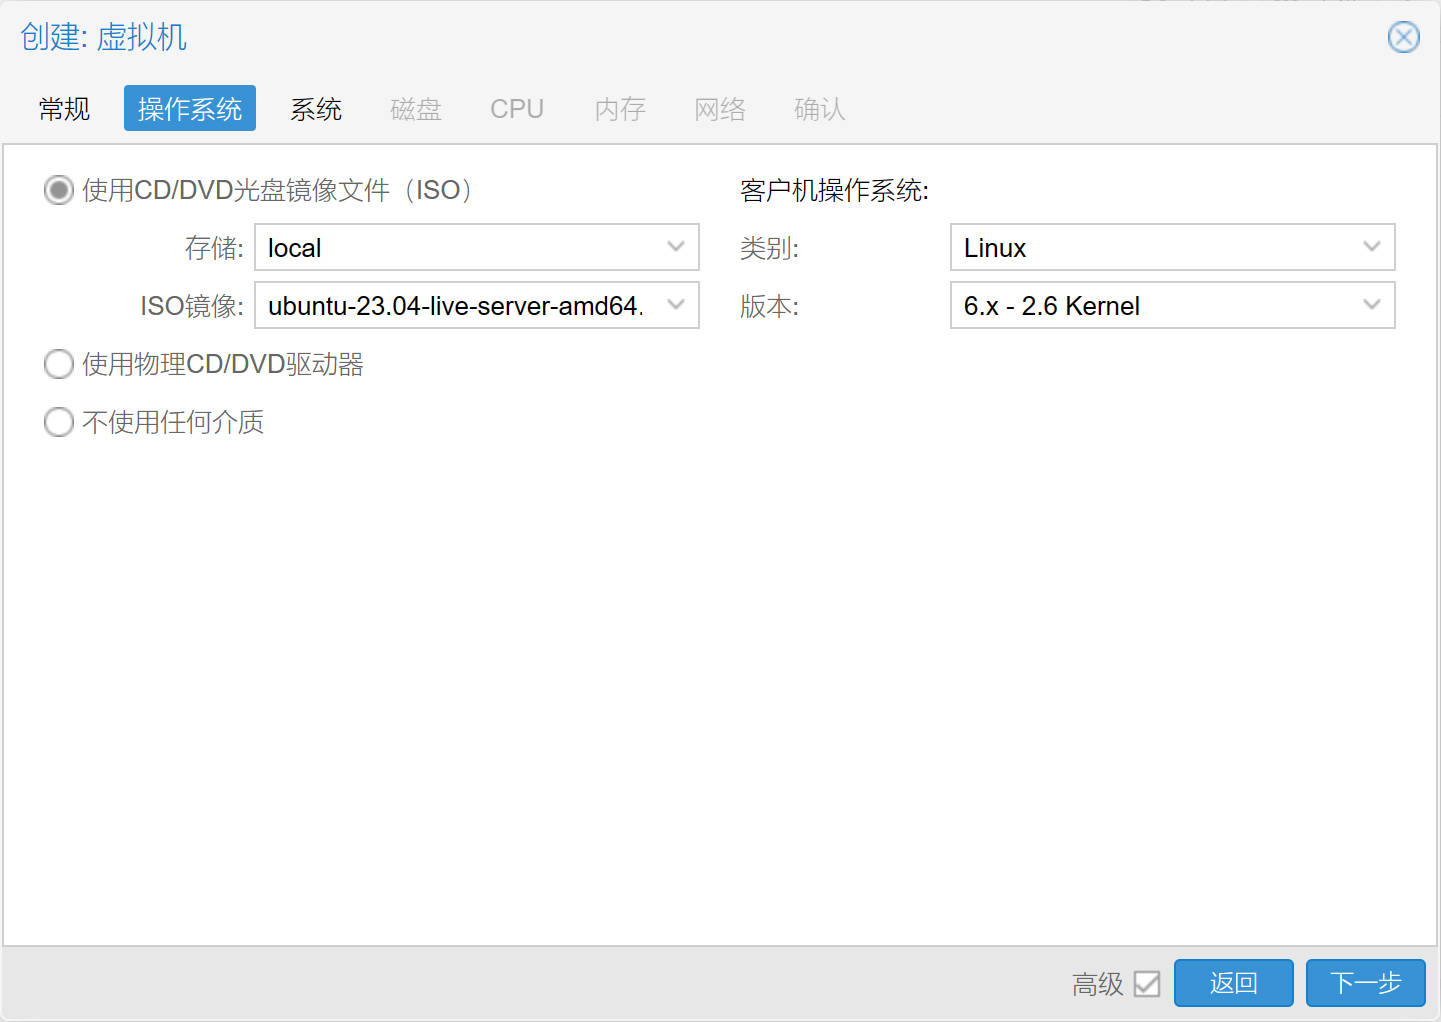
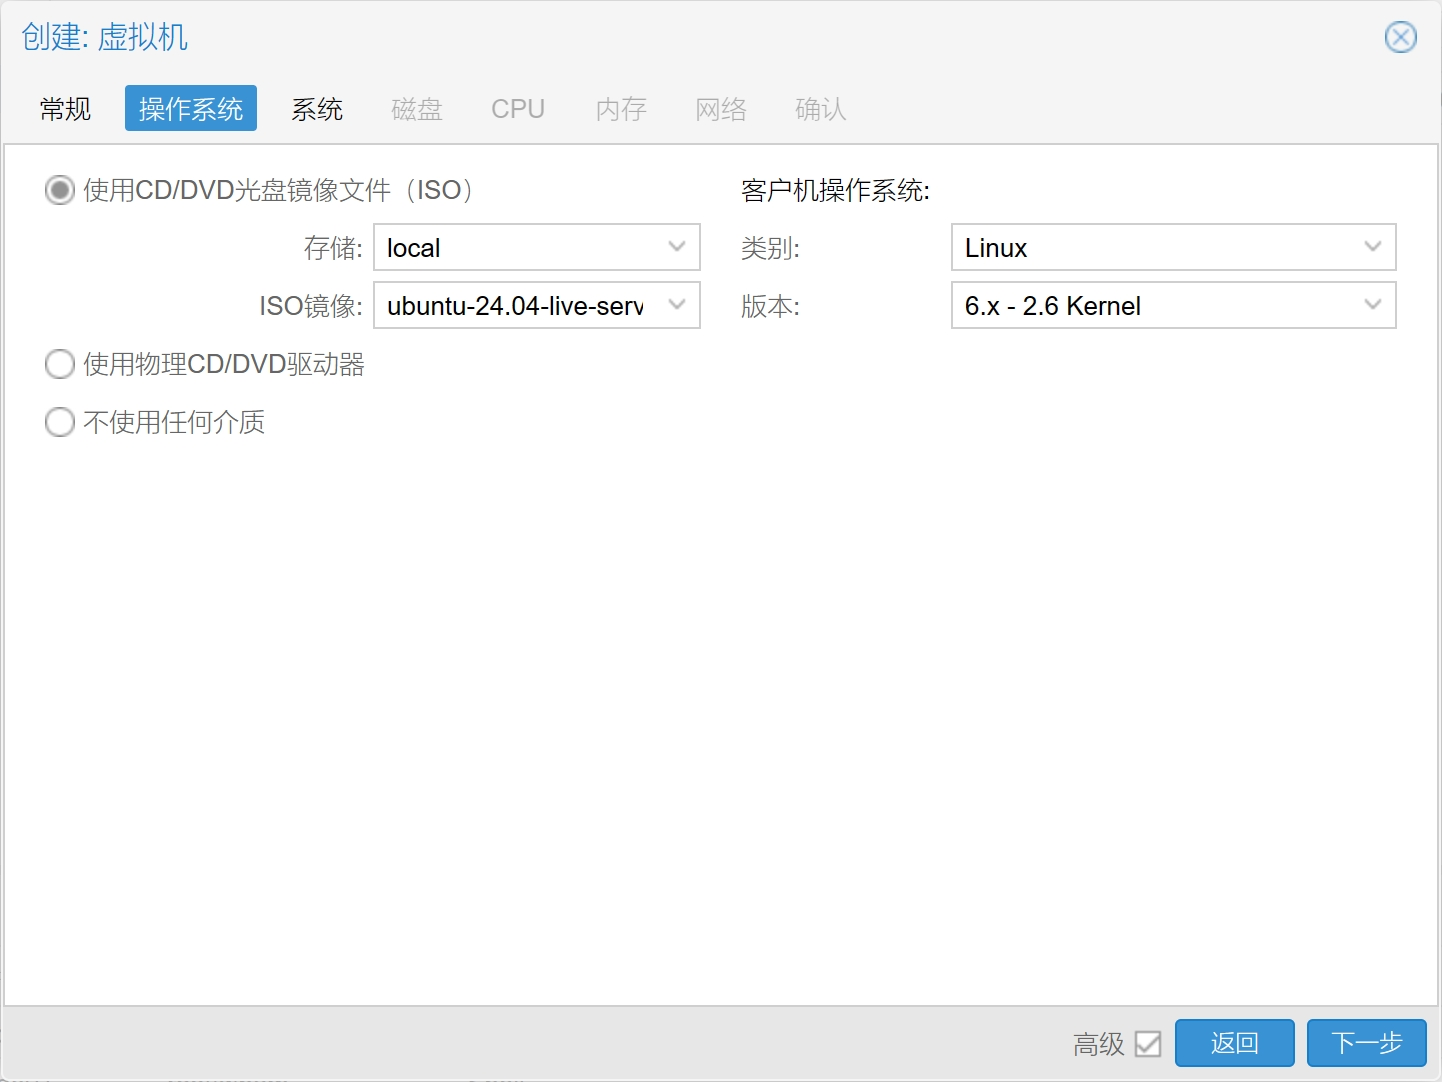
同步更新

diff --git a/02.Ubuntu_安装系统软件.md b/02.Ubuntu_安装系统软件.md
@@ -6,7 +6,7 @@
 
 由于之前设置的 `Mirror address` 仅为临时使用地址，现在需将其修改为完整版，依然使用 USTC 镜像站作为演示。  
 
-以后，当系统版本发生变化时，请参考使用 snullp 大叔开发的 [配置生成器](https://mirrors.ustc.edu.cn/repogen/) 。  
+以后，当系统版本发生变化时，请参考 USTC 镜像站的官方说明 [USTC Mirror Help - Ubuntu](https://mirrors.ustc.edu.cn/help/ubuntu.html) 。  
 
 如果系统安装模式为 `Ubuntu Server (minimized)` ，则在修改系统软件源之前，务必安装以下软件包。  
 
@@ -15,37 +15,40 @@
 $ sudo apt install nano neovim
 ```
 
-使用 `neovim` 编辑器修改软件源配置文件，执行以下命令。  
+Ubuntu 24.04 的软件源配置采用了 `DEB822` 格式，新版 `sources.list` 配置文件内容如下。  
 
 ```bash
-## 进入软件源配置文件目录
-$ cd /etc/apt/
+## 查看镜像配置文件
+$ cat /etc/apt/sources.list
 
-## 移除旧的软件源配置文件
-$ sudo rm -rvf sources.list sources.list.curtin.old
-
-## 创建新的软件源配置文件
-$ sudo nvim sources.list
+#### 配置文件示例输出
+# Ubuntu sources have moved to /etc/apt/sources.list.d/ubuntu.sources
 ```
 
-在配置文件中添加以下配置项，并保存。  
+使用 `neovim` 编辑器编辑 `ubuntu.sources` 配置文件，执行以下命令。  
 
 ```bash
-deb https://mirrors.ustc.edu.cn/ubuntu/ lunar main restricted universe multiverse
-# deb-src https://mirrors.ustc.edu.cn/ubuntu/ lunar main restricted universe multiverse
+## 编辑 debian.sources 配置文件
+$ sudo nvim /etc/apt/sources.list.d/ubuntu.sources
+```
 
-deb https://mirrors.ustc.edu.cn/ubuntu/ lunar-security main restricted universe multiverse
-# deb-src https://mirrors.ustc.edu.cn/ubuntu/ lunar-security main restricted universe multiverse
+删除里面全部内容，添加以下配置项，并保存。  
 
-deb https://mirrors.ustc.edu.cn/ubuntu/ lunar-updates main restricted universe multiverse
-# deb-src https://mirrors.ustc.edu.cn/ubuntu/ lunar-updates main restricted universe multiverse
+```bash
+## 系统软件源配置项
 
-deb https://mirrors.ustc.edu.cn/ubuntu/ lunar-backports main restricted universe multiverse
-# deb-src https://mirrors.ustc.edu.cn/ubuntu/ lunar-backports main restricted universe multiverse
+Types: deb
+URIs: https://mirrors.ustc.edu.cn/ubuntu
+Suites: noble noble-updates noble-backports
+Components: main restricted universe multiverse
+Signed-By: /usr/share/keyrings/ubuntu-archive-keyring.gpg
 
-## Not recommended
-# deb https://mirrors.ustc.edu.cn/ubuntu/ lunar-proposed main restricted universe multiverse
-# deb-src https://mirrors.ustc.edu.cn/ubuntu/ lunar-proposed main restricted universe multiverse
+Types: deb
+URIs: https://mirrors.ustc.edu.cn/ubuntu
+Suites: noble-security
+Components: main restricted universe multiverse
+Signed-By: /usr/share/keyrings/ubuntu-archive-keyring.gpg
+
 ```
 
 ## 2.更新系统

diff --git a/04.Ubuntu_设置系统网络.md b/04.Ubuntu_设置系统网络.md
@@ -593,7 +593,7 @@ $ sudo systemctl enable sshguard.service
 >
 > You do not need to add the PPPoE and the VLAN devices to your flowtable, instead the real device is sufficient for the flowtable to track your flows.  
 
-考虑到 OpenWrt 22.03 内核版本为 `5.10.*` ，Ubuntu Server 23.04 内核版本为 `6.2.*` ，因此将 PPPoE 拨号后生成的端口从 `flowtable` 中移除是个更好的选择，这样不仅能向前兼容，还能解决 `nftables` 服务与 PPPoE 拨号服务启动顺序带来的冲突。  
+考虑到 OpenWrt 23.05 内核版本为 `5.15.*` ，Ubuntu Server 24.04 内核版本为 `6.8.*` ，因此将 PPPoE 拨号后生成的端口从 `flowtable` 中移除是个更好的选择，这样不仅能向前兼容，还能解决 `nftables` 服务与 PPPoE 拨号服务启动顺序带来的冲突。  
 
 `nftables.service` 启动时会自动加载 `/etc/nftables.conf` 配置文件 ，也就是防火墙的默认配置。  
 

diff --git a/README.md b/README.md
@@ -6,7 +6,7 @@ Linux 路由器的安装以及折腾手记。
 - 适用 Linux 发行版（优先使用支持 `systemd` 的发行版）
     - Arch Linux
     - Debian 12
-    - Ubuntu Server 23.04
+    - Ubuntu Server 24.04
 
 - 演示机：
     - 虚拟化：Proxmox VE
